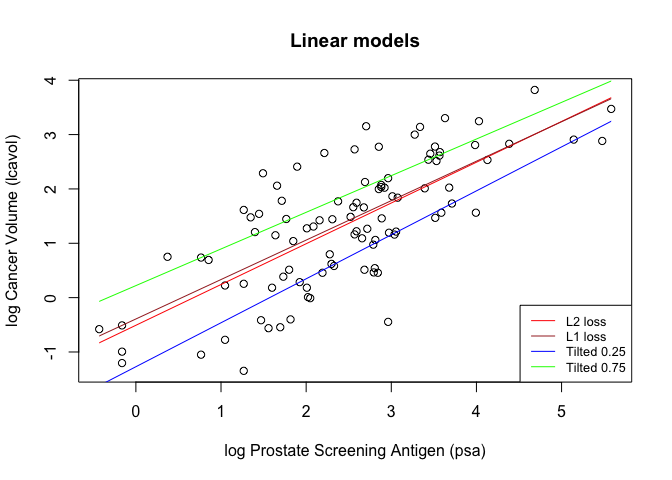
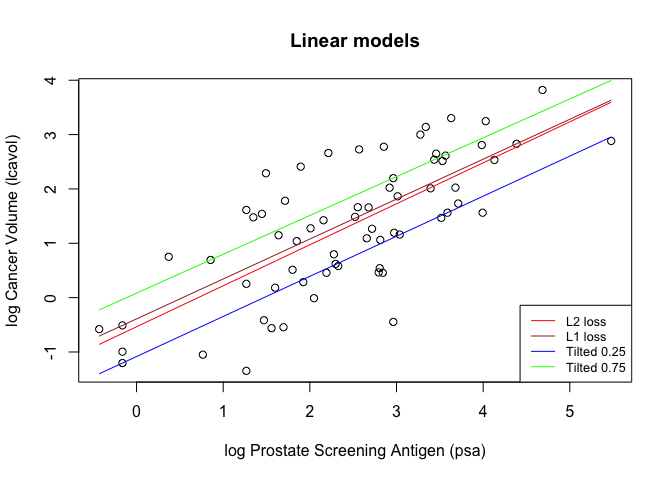
hw2 first

diff --git a/Homework1.md b/Homework1.md
@@ -1,3 +1,13 @@
+    knitr::opts_chunk$set(echo = TRUE)
+
+    library('ElemStatLearn')
+
+    ## load prostate data
+    data("prostate")
+
+    ## subset to training examples
+    prostate_train <- subset(prostate, train==TRUE)
+
 Using the RMarkdown/knitr/github mechanism, implement the following
 tasks by extending the example R script (prostate-data-lin.R):
 
